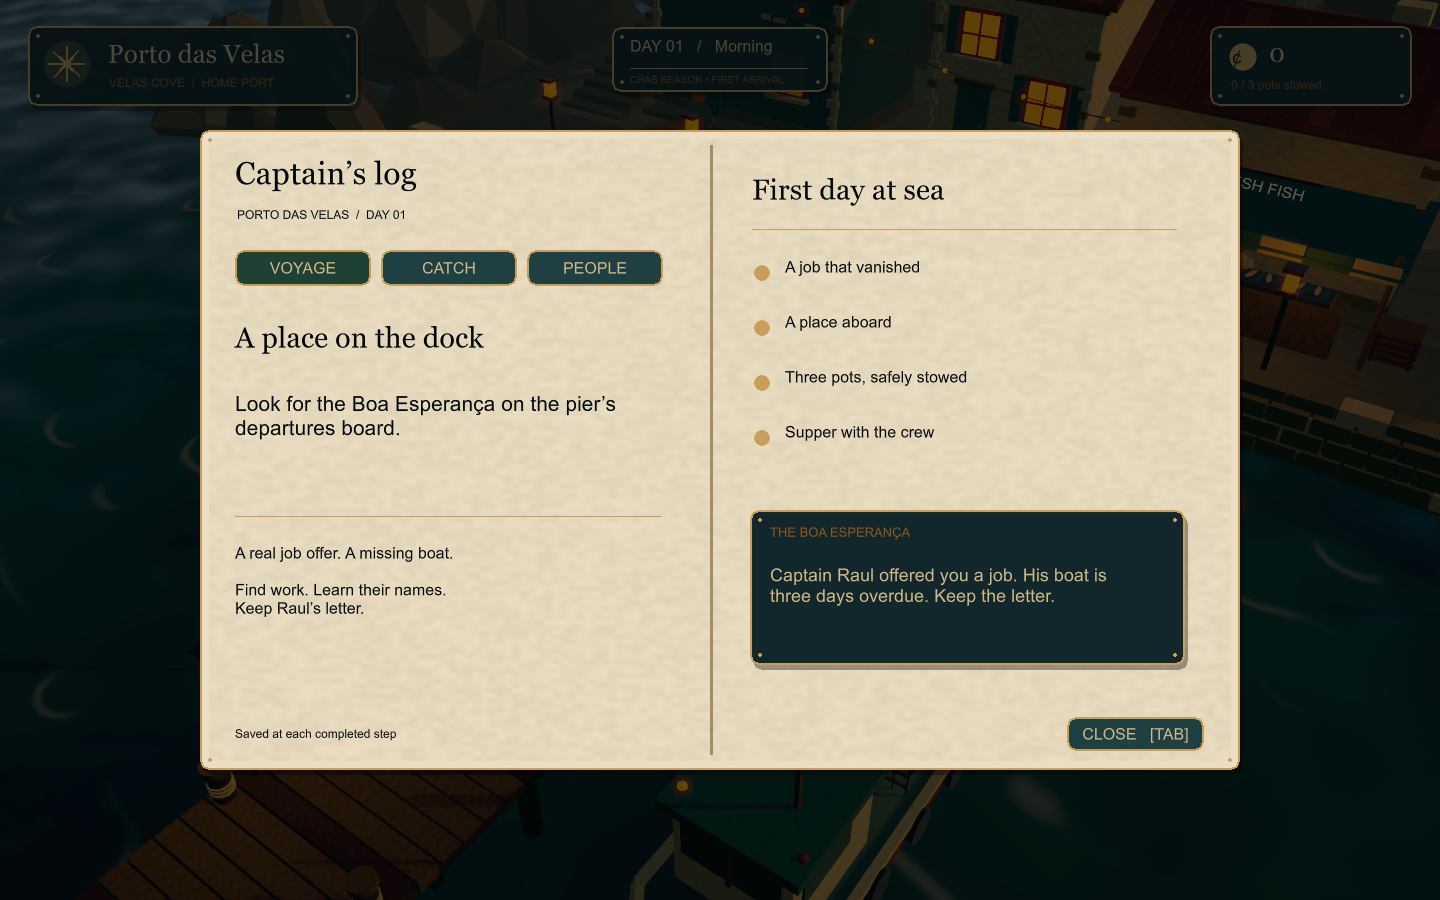
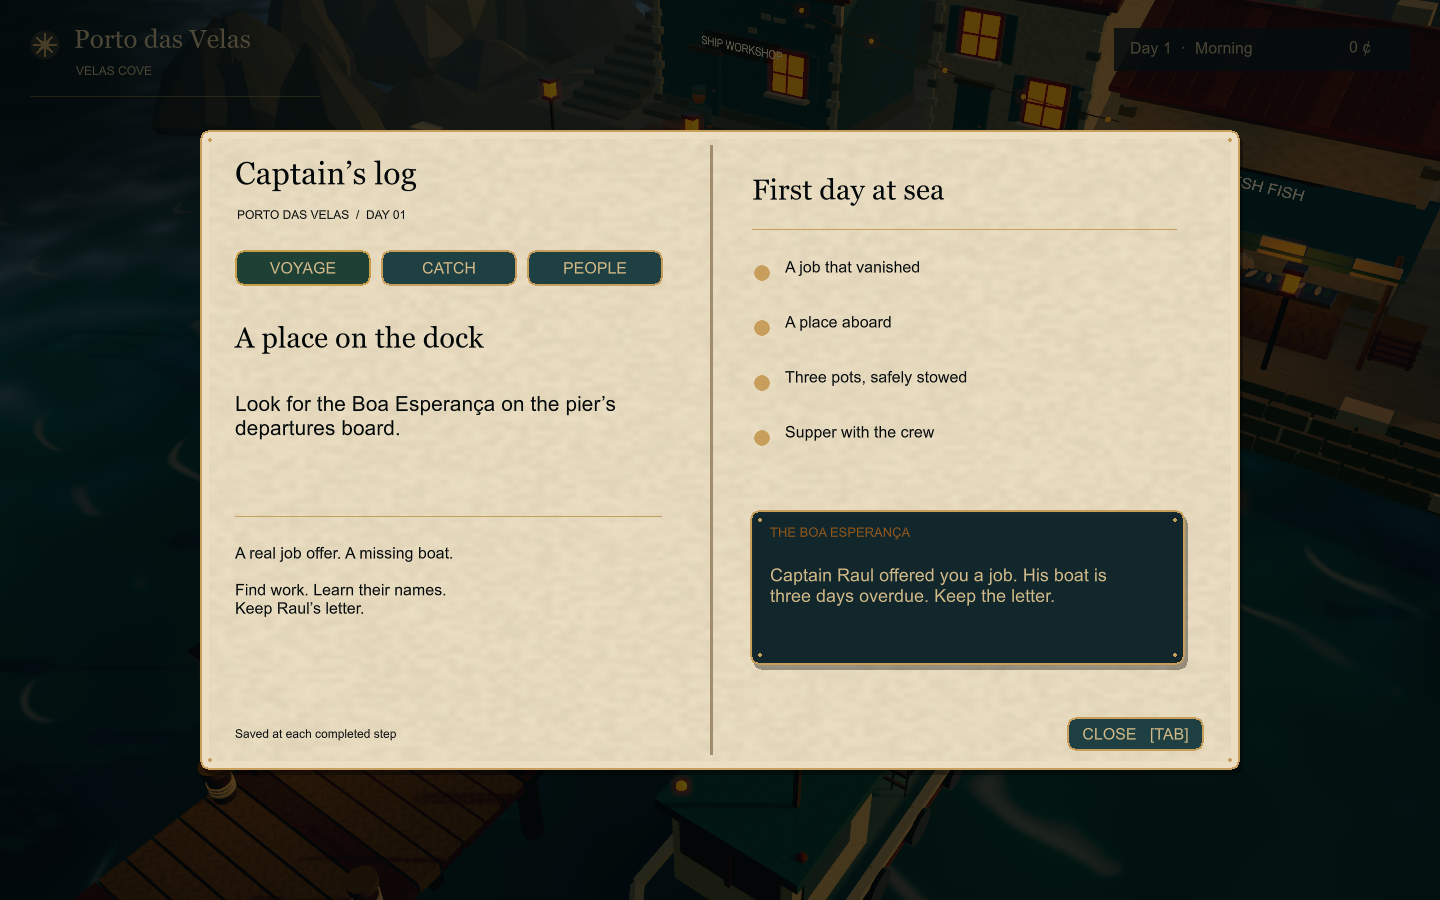
Simplify exploration HUD and show contextual interaction near the player

diff --git a/mare-de-ferro/Unity/Assets/Scripts/HarborUI.cs b/mare-de-ferro/Unity/Assets/Scripts/HarborUI.cs
@@ -4,7 +4,7 @@ using UnityEngine;
 namespace MareDeFerro {
 public partial class HarborGame {
     readonly Color ink=new Color(.09f,.19f,.21f),ivory=new Color(.92f,.87f,.76f),gold=new Color(.78f,.62f,.36f),seafoam=new Color(.55f,.73f,.66f);
-    Texture2D paperTexture,portraitAtlas,coverTexture,circleTexture,fadeTexture;
+    Texture2D paperTexture,portraitAtlas,coverTexture,circleTexture,fadeTexture,hudShade;
     GUIStyle serif,caption,paperBody,paperSmall,centered,frameStyle,paperStyle,portraitFrame;
     bool english=true;
     int journalTab;
@@ -21,7 +21,7 @@ public partial class HarborGame {
         title=Style(76,ivory,false,display);body=Style(21,ivory,true);paperBody=Style(21,ink,true);paperSmall=Style(16,ink,true);
         centered=Style(16,ivory);centered.alignment=TextAnchor.MiddleCenter;
         white=Solid(Color.white);accent=Solid(gold);panel=Solid(new Color(.06f,.14f,.16f,.97f));
-        paperTexture=Paper();circleTexture=Disc();fadeTexture=Fade();
+        paperTexture=Paper();circleTexture=Disc();fadeTexture=Fade();hudShade=HudShade();
         coverTexture=Resources.Load<Texture2D>("UI/HarborCover");portraitAtlas=Resources.Load<Texture2D>("UI/CrewPortraits");
         frameStyle=new GUIStyle{normal={background=Rounded(new Color(.055f,.14f,.16f,.97f),gold)},border=new RectOffset(12,12,12,12)};
         paperStyle=new GUIStyle{normal={background=Rounded(ivory,gold)},border=new RectOffset(12,12,12,12)};
@@ -44,6 +44,7 @@ public partial class HarborGame {
     }
     Texture2D Disc(){var t=new Texture2D(64,64,TextureFormat.RGBA32,false);for(int y=0;y<64;y++)for(int x=0;x<64;x++){float d=Vector2.Distance(new Vector2(x,y),new Vector2(31.5f,31.5f));t.SetPixel(x,y,new Color(1,1,1,Mathf.Clamp01(31.5f-d)));}t.Apply();return t;}
     Texture2D Fade(){var t=new Texture2D(128,1,TextureFormat.RGBA32,false);t.wrapMode=TextureWrapMode.Clamp;for(int x=0;x<128;x++)t.SetPixel(x,0,new Color(.018f,.05f,.065f,Mathf.Lerp(.94f,0,x/127f)));t.Apply();return t;}
+    Texture2D HudShade(){var t=new Texture2D(128,128,TextureFormat.RGBA32,false);t.wrapMode=TextureWrapMode.Clamp;for(int y=0;y<128;y++)for(int x=0;x<128;x++){float a=(1-Mathf.SmoothStep(0,1,x/127f))*Mathf.SmoothStep(0,1,y/90f);t.SetPixel(x,y,new Color(.012f,.035f,.04f,a*.94f));}t.Apply();return t;}
     void Fill(Rect r,Color c){Color old=GUI.color;GUI.color=c;GUI.DrawTexture(r,white);GUI.color=old;}
     void Circle(Rect r,Color c){Color old=GUI.color;GUI.color=c;GUI.DrawTexture(r,circleTexture);GUI.color=old;}
     void Rule(float x,float y,float width,Color c){Fill(new Rect(x,y,width,1),c);}
@@ -98,34 +99,29 @@ public partial class HarborGame {
         LanguageButtons(80,h-57);GUI.Label(new Rect(w-390,h-49,330,25),"PORTO DAS VELAS  ·  01",small);
     }
     void DrawHud(float w,float h) {
-        Frame(new Rect(28,26,330,80),false);CompassRose(new Rect(43,40,48,48),gold);
-        GUI.Label(new Rect(108,39,230,31),OnTrainingDeck?"São Bento":"Porto das Velas",heading);
-        GUI.Label(new Rect(109,76,230,20),OnTrainingDeck?T("GREENHORN  /  DECK CREW","NOVATO  /  TRIPULAÇÃO"):T("VELAS COVE  /  HOME PORT","ENSEADA  /  PORTO"),tiny);
-        Frame(new Rect(w/2-108,27,216,65),false);
+        GUI.DrawTexture(new Rect(0,0,490,345),hudShade);
+        CompassRose(new Rect(30,30,30,30),gold);
+        GUI.Label(new Rect(74,24,310,36),OnTrainingDeck?"São Bento":"Porto das Velas",heading);
+        GUI.Label(new Rect(76,64,300,22),OnTrainingDeck?T("GREENHORN · FIRST TRIP","NOVATO · PRIMEIRA SAÍDA"):T("VELAS COVE","ENSEADA DAS VELAS"),Style(12,ivory));
+        Rule(30,96,290,new Color(gold.r,gold.g,gold.b,.45f));
         string phase=Chapter<=Prologue.Board?T("Morning","Manhã"):OnTrainingDeck?T("Afternoon","Tarde"):Chapter<Prologue.Radio?T("Dusk","Anoitecer"):T("Night","Noite");
-        GUI.Label(new Rect(w/2-90,37,190,25),T("DAY 01","DIA 01")+"   /   "+phase,small);
-        Rule(w/2-90,68,178,gold);GUI.Label(new Rect(w/2-90,74,190,18),T("CRAB SEASON • FIRST ARRIVAL","TEMPORADA • PRIMEIRA CHEGADA"),Style(10,gold));
-        Frame(new Rect(w-230,26,202,80),false);Circle(new Rect(w-211,43,28,28),gold);GUI.Label(new Rect(w-208,47,25,22),"¢",Style(18,ink));
-        GUI.Label(new Rect(w-171,38,130,31),save.coins.ToString("N0"),heading);
-        GUI.Label(new Rect(w-209,78,174,19),PrologueActive?save.trainingPots+T(" / 3 pots stowed"," / 3 covos guardados"):save.hold.Count+" / "+HoldCapacity+T(" hold slots"," espaços no porão"),tiny);
+        Fill(new Rect(w-326,28,296,43),new Color(.025f,.07f,.085f,.82f));
+        GUI.Label(new Rect(w-310,39,208,25),T("Day 1","Dia 1")+"  ·  "+phase,small);
+        GUI.Label(new Rect(w-91,38,65,25),save.coins+" ¢",small);
         if(dialog==""&&!inventory&&!paused) {
-            Fill(new Rect(0,h-54,w,54),new Color(.025f,.07f,.09f,.83f));
-            Key(new Rect(30,h-41,57,27),"WASD");GUI.Label(new Rect(97,h-37,210,25),aboard?T("Throttle & rudder","Motor e leme"):T("Move","Caminhar"),small);
-            Key(new Rect(246,h-41,28,27),"C");GUI.Label(new Rect(285,h-37,150,25),T("Camera","Câmera"),small);
-            if(UiButton(new Rect(w/2-92,h-45,184,35),T("TAB   Captain’s log","TAB   Diário de bordo")))SetInventory(true);
-            if(UiButton(new Rect(w-168,h-45,140,35),T("ESC   Pause","ESC   Pausa")))SetPaused(true);
+            Fill(new Rect(26,h-57,340,31),new Color(.025f,.07f,.085f,.65f));
+            GUI.Label(new Rect(38,h-51,325,24),aboard?T("WASD  Helm     SPACE  Brake","WASD  Leme     ESPAÇO  Freio"):T("WASD  Move     SHIFT  Run     C  Camera","WASD  Mover     SHIFT  Correr     C  Câmera"),Style(13,ivory));
+            if(UiButton(new Rect(w-276,h-59,150,33),T("TAB   Logbook","TAB   Diário")))SetInventory(true);
+            if(UiButton(new Rect(w-116,h-59,86,33),"ESC"))SetPaused(true);
         }
     }
     void DrawQuestCard() {
-        Rect r=new Rect(28,138,292,218);Frame(r,true);
-        GUI.Label(new Rect(r.x+22,r.y+17,250,22),T("CHAPTER 00","CAPÍTULO 00"),Style(12,new Color(.48f,.35f,.2f)));
-        GUI.Label(new Rect(r.x+22,r.y+42,250,33),T("A place on the dock","Uma vaga no cais"),Style(23,ink,false,serif.font));
-        Rule(r.x+22,r.y+85,247,new Color(.69f,.61f,.46f));
-        GUI.Label(new Rect(r.x+22,r.y+102,247,76),UiObjective(),Style(18,ink,true));
-        for(int i=0;i<3;i++)Circle(new Rect(r.x+22+i*18,r.y+188,8,8),i<save.trainingPots?ink:new Color(.68f,.64f,.54f));
-        GUI.Label(new Rect(r.x+91,r.y+184,175,23),OnTrainingDeck?T("Your first three pots","Seus primeiros três covos"):T("A new beginning","Um novo começo"),Style(12,ink));
+        GUI.Label(new Rect(30,113,320,28),T("A place on the dock","Uma vaga no cais"),Style(20,ivory,false,serif.font));
+        GUI.Label(new Rect(30,153,290,65),UiObjective(),Style(17,ivory,true));
+        if(OnTrainingDeck){for(int i=0;i<3;i++)Circle(new Rect(31+i*17,227,6,6),i<save.trainingPots?gold:new Color(.5f,.56f,.54f));GUI.Label(new Rect(96,219,225,23),save.trainingPots+T(" / 3 pots stowed"," / 3 covos guardados"),Style(12,ivory));}
     }
     void DrawTaskMarker(float w,float h) {
+        if(HarborNavigation.Distance(captain.position,TaskTarget())<=2)return;
         Vector3 screen=view.WorldToScreenPoint(TaskTarget()+Vector3.up*2.2f);if(screen.z<=0)return;
         float scale=Mathf.Min(Screen.width/1440f,Screen.height/900f);float x=Mathf.Clamp(screen.x/scale,355,w-245),y=Mathf.Clamp((Screen.height-screen.y)/scale,123,h-185);
         float pulse=1+Mathf.Sin(Time.unscaledTime*2)*.06f;Circle(new Rect(x-13*pulse,y-13*pulse,26*pulse,26*pulse),new Color(.96f,.74f,.38f,.24f));
@@ -134,10 +130,17 @@ public partial class HarborGame {
     void DrawInteraction(float w,float h) {
         if(fishing)return;
         bool close=PrologueActive&&HarborNavigation.Distance(captain.position,TaskTarget())<=2;
+        if(PrologueActive&&!close&&Chapter!=Prologue.Soak&&Chapter!=Prologue.Ending)return;
         string text=PrologueActive?UiInteraction(close):Localize(Prompt());
-        Rect r=new Rect(w/2-245,h-145,490,65);Frame(r,false);
+        if(string.IsNullOrEmpty(text))return;
+        Vector3 screen=view.WorldToScreenPoint(captain.position+Vector3.up*2.5f);
+        float scale=Mathf.Min(Screen.width/1440f,Screen.height/900f);
+        float px=Mathf.Clamp(screen.x/scale,515,w-195),py=Mathf.Clamp((Screen.height-screen.y)/scale-70,280,h-155);
+        float width=Mathf.Clamp(small.CalcSize(new GUIContent(text)).x+78,145,340);
+        Rect r=PrologueActive&&close?new Rect(px-width/2,py,width,54):new Rect(w/2-width/2,h-130,width,54);
+        Fill(r,new Color(.025f,.07f,.085f,.92f));Rule(r.x,r.yMax-1,r.width,new Color(gold.r,gold.g,gold.b,.6f));
         string key=PrologueActive?(Chapter==Prologue.Soak||Chapter==Prologue.Ending?"…":close?"E":"↑"):"E";
-        Key(new Rect(r.x+17,r.y+15,35,35),key);GUI.Label(new Rect(r.x+67,r.y+13,405,42),text,new GUIStyle(small){wordWrap=true,alignment=TextAnchor.MiddleLeft});
+        Key(new Rect(r.x+12,r.y+12,29,29),key);GUI.Label(new Rect(r.x+55,r.y+6,r.width-65,42),text,new GUIStyle(small){wordWrap=true,alignment=TextAnchor.MiddleLeft});
         if(PrologueActive&&HoldTask&&taskProgress>0)Fill(new Rect(r.x+9,r.yMax-5,(r.width-18)*taskProgress,3),gold);
         if(PrologueActive&&Chapter==Prologue.Soak)Fill(new Rect(r.x+9,r.yMax-5,(r.width-18)*(1-soakTime/8),3),seafoam);
     }

diff --git a/mare-de-ferro/Unity/Assets/Scripts/HarborPrologue.Validation.cs b/mare-de-ferro/Unity/Assets/Scripts/HarborPrologue.Validation.cs
@@ -31,6 +31,7 @@ public partial class HarborGame {
         yield return Photograph("ui-portugues");SetLanguage(true);
         Check(Chapter==Prologue.Arrival&&dialog!="","Fresh journey opens arrival for a job aboard the missing Boa Esperanca");
         yield return Photograph("prologo-chegada");ReadStory();
+        yield return Photograph("ui-exploracao");
         SetInventory(true);yield return Photograph("ui-diario");journalTab=2;yield return Photograph("ui-tripulacao");
         Screen.SetResolution(1280,720,FullScreenMode.Windowed);yield return new WaitForSecondsRealtime(.5f);
         yield return Photograph("ui-tripulacao-720p");SetInventory(false);SetPaused(true);
@@ -58,6 +59,7 @@ public partial class HarborGame {
             }
             // Use actual movement and physical collision for every task, never teleport between stations.
             yield return ApproachTask();
+            if(stage==Prologue.Mara)yield return Photograph("ui-interacao");
             Check(HarborNavigation.Distance(captain.position,TaskTarget())<=2,"Walk to reachable task: "+stage+" / pot "+save.trainingPots);
             TickPrologue(.02f,false,false);
             if(HoldTask) {

diff --git a/mare-de-ferro/UI-DIRECAO.md b/mare-de-ferro/UI-DIRECAO.md
@@ -6,7 +6,8 @@ A interface usa as pinturas aprovadas como referência de atmosfera: azul-petró
 
 - Menu com a pintura de Porto das Velas já aprovada.
 - HUD de localização, período narrativo do dia, moedas e covos guardados. O período acompanha as etapas do prólogo; não é um relógio de simulação contínua.
-- Objetivo em cartão de papel, marcador espacial e progresso da tarefa junto à indicação de interação.
+- HUD compacto: localização e objetivo sobre sombra suave, dia e moedas em uma faixa pequena no canto direito. O papel fica reservado aos diálogos e ao diário.
+- Marcador espacial discreto. A indicação de interação aparece perto do personagem quando ele alcança o objetivo; a faixa permanente de “siga o marcador” foi removida. Progresso de trabalho e espera continuam visíveis durante a tarefa.
 - Diálogos com seis retratos, nome e função; páginas longas têm rolagem. E ou o botão continuam a conversa.
 - Diário com abas de viagem, capturas e pessoas. A pista da porcelana só aparece depois da descoberta.
 - Pausa com salvar, retomar, sair e seleção EN/PT. Idioma padrão inglês; preferência é mantida entre sessões. A tradução cobre o prólogo e sua interface; a exploração livre legada ainda contém textos em português.
